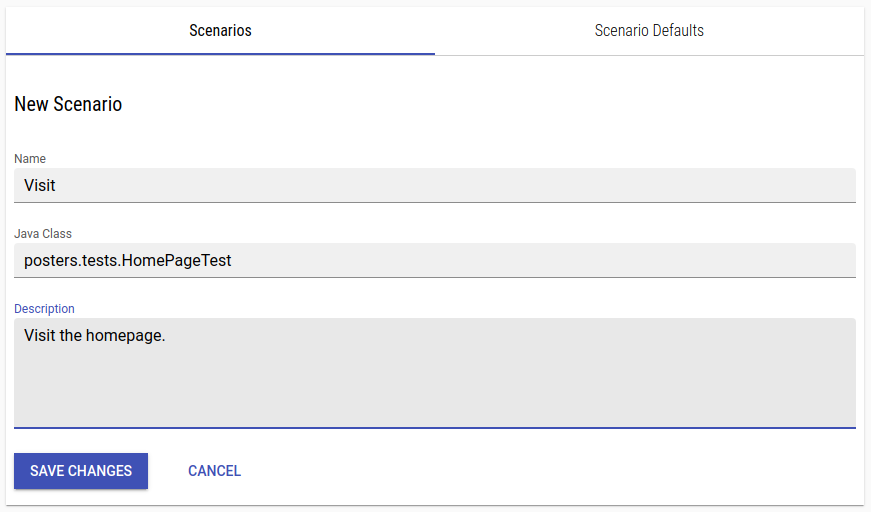
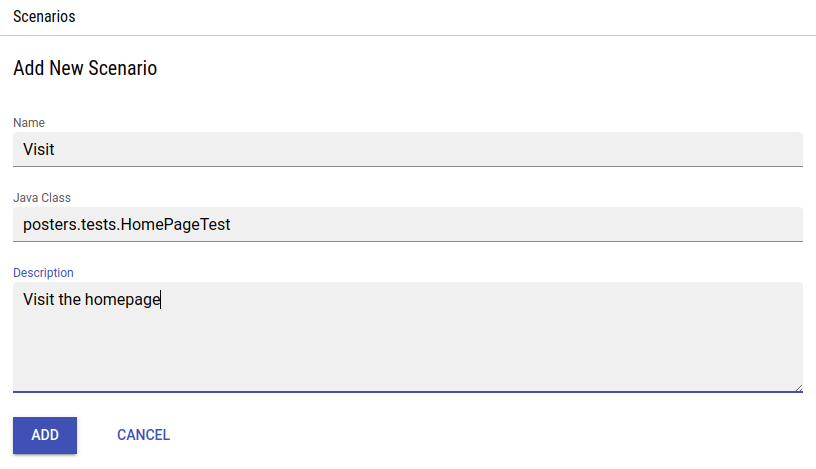
XTC changes up to v84

diff --git a/content/en/xtc/monitoring/440-scenario-setup.md b/content/en/xtc/monitoring/440-scenario-setup.md
@@ -18,13 +18,44 @@ The basis for all monitoring scenarios is a set of [XLT test cases]({{< relref "
 
 XLT tests are basically Java classes containing JUnit tests. These classes will be built by XTC so it can then run the test scenarios contained in them.
 
-## Defining Scenario Defaults
+## Adding a New Scenario
 
-In the _Scenarios_ section you will find two tabs: _Scenarios_, which allows you to manage the monitoring scenarios for your project, and _Scenario Defaults_, where you can define default settings to be used for all monitoring scenarios. These defaults can be overwritten for each individual scenario. To view or edit scenario defaults, use the toggle on the right to expand the default section, where you will find one or more editing buttons next to the settings:
+To add a new monitoring scenario to your project, just click the `+` button at the top of the scenarios list. You will be asked to enter a **Name** (which must be unique across all scenarios in this project) and **Description** and, most importantly, the **Java Class** (including class path) in your repository that contains this scenario as a JUnit test case. 
 
-{{< image src="xtc/monitoring_scenarioDefaults.png" >}}
-The scenario defaults tab with expand toggle and editing button.
+{{< image src="xtc/monitoring_newScenario.png" >}}
+Creating a new monitoring scenario.
+{{< /image >}}  
+
+The new scenario will now show up in the list. It will be enabled by default and it will automatically use the [scenario default settings]({{< relref "#defining-scenario-defaults" >}}). You can now adjust these settings as needed by [editing the scenario]({{< relref "#managing-existing-scenarios" >}}). 
+
+{{% note notitle %}}
+New scenarios are disabled by default to give you time to finish customizing the scenario settings. Don't forget to enable the scenario when done.
+{{% /note %}}
+
+## Managing Existing Scenarios
+
+In the _Scenarios_ tab you may manage the monitoring scenarios of your project, add new scenarios, edit settings for the existing ones, quickly enable or disable scenarios or delete them if they are no longer needed.
+
+{{< image src="xtc/monitoring_scenarios_overview.png" >}}
+Overview of all existing scenarios in the project.
 {{< /image >}}
+
+You can open the detail view of a scenario by clicking the scenario name. There you 
+can adjust the [scenario settings]({{< relref "#scenario-settings" >}}) and [notifications]({{< relref "#notifications" >}}) as needed. Otherwise the [scenario defaults]({{< relref "420-monitoring-configuration/#defining-scenario-defaults" >}}) will be used. 
+
+You can reset any overwritten default setting by simply removing it via this setting's context menu or by deleting all overwritten 
+
+{{< image src="xtc/monitoring_drop_overwritten_settings.png" >}}
+Deleting the overwritten criteria settings for a scenario to use default again.
+{{< /image >}}
+
+If you do not need a scenario you can **disable** it temporarily or **delete** it entirely by choosing these actions from the scenario's context menu.
+
+## Scenario Settings
+
+### General 
+
+In _General_ you set the scenario name and description, and the Java class containing this scenario. 
 
 ### Execution
 
@@ -38,54 +69,15 @@ In _Execution_ you define where and how the scenarios should be executed:
 
 In _Properties_ you may add test properties to use for scenario execution. These properties may be entered as free text, so make sure your input is valid!
 
-### Notifications
-
-In _Notifications_ you can manage the notification recipients or temporary disable notifications. You will find a toggle to deactivate notifications completely (this can be overwritten in each individual scenario). For active notifications you may define
-* a _Send Threshold_, i.e. a fail count (how many executions must fail to send a notification) and the number of considered executions (how many of the last executions should be considered to validate the fail count against, e.g. if the fail count is 2 and you consider 2 executions, a notification will be sent if two consecutive executions fail, but if you consider 5 executions for the same fail count, a notification will be already sent as soon as two out of five consecutive executions fail), 
-* a _Reply-To Address_ (the default reply address for received notification mails - if none is set this is a no-reply service address, so we recommend using any sensible contact in your project for this), and
-* a _Subscription List_, which consists of one or more recipients for your monitoring notifications, which may be added as a user (project member with predefined mail address) or a custom entry (custom mail address or phone number). For each subscriber you may choose whether to send notifications via e-mail or text message (or both). The subscriber data can be edited anytime, subscribers can also be deactivated or removed entirely.
-
 ### Criteria
 
 The most crucial part of the settings is to define _criteria_ which will be validated during the scenario execution. Violations cause the scenario to be treated as failed. You may define several criteria, each of which will be validated individually (i.e. if one criterion fails, the scenario will be treated as failed and a notification will be sent).
 
 You may add criteria by clicking the `+` symbol at the top of the list. You can then pick a criterion to use from a given list (e.g. Maximum Request Runtime, or Maximum Request Errors) and define a threshold for this criterion.
 
-## Managing Existing Scenarios
+## Notifications
 
-In the _Scenarios_ tab you may manage the monitoring scenarios of your project, add new scenarios, edit settings for the existing ones or delete them if they are no longer needed.
-
-You can open an overview of a scenario's current settings by clicking the scenario name or the expand button right of the scenario row in the list:
-
-{{< image src="xtc/monitoring_scenarioOverview.png" >}}
-Expanded scenario information in the scenarios list.
-{{< /image >}}
-
-By selecting "Edit" from the menu in the right of the scenario row, you can adjust the scenario settings as needed. Otherwise the [scenario defaults]({{< relref "#defining-scenario-defaults" >}}) will be used. The settings we explained in [scenario defaults]({{< relref "#defining-scenario-defaults" >}}) are available for each individual scenario, and in addition you have the basic scenario settings in _General_ (scenario name and description, and the Java class containing this scenario). 
-
-Scenarios with overwritten settings are indicated by a small "(Defaults overwritten)" note next to the scenario name. In the settings overview, the overwritten scenarios are highlighted in blue:
-
-{{< image src="xtc/monitoring_overwrittenSettings.png" >}}
-Scenario information containing an overwritten setting.
-{{< /image >}}
-
-If you do not need a scenario you can disable it temporarily or delete it entirely by choosing these actions from the scenario's context menu.
-
-{{< image src="xtc/monitoring_scenarioMenu.png" >}}
-The context menu for a monitoring scenario.
-{{< /image >}}
-
-## Adding a New Scenario
-
-To add a new monitoring scenario to your project, just click the `+` button at the top of the scenarios list. You will be asked to enter a **Name** (which must be unique across all scenarios in this project) and **Description** and, most importantly, the **Java Class** (including class path) in your repository that contains this scenario as a JUnit test case. 
-
-{{< image src="xtc/monitoring_newScenario.png" >}}
-Creating a new monitoring scenario.
-{{< /image >}}  
-
-The new scenario will now show up in the list. It will be enabled by default and it will automatically use the [scenario default settings]({{< relref "#defining-scenario-defaults" >}}). You can now adjust these settings as needed by [editing the scenario]({{< relref "#managing-existing-scenarios" >}}). 
-
-{{% note notitle %}}
-New scenarios are disabled by default you time to finish customizing the scenario settings. Don't forget to enable the scenario when done.
-{{% /note %}}
-
+In _Notifications_ you can manage the notification recipients or temporary disable notifications. You will find a toggle to deactivate notifications completely (this can be overwritten in each individual scenario). For active notifications you may define
+* a _Send Threshold_, i.e. a fail count (how many executions must fail to send a notification) and the number of considered executions (how many of the last executions should be considered to validate the fail count against, e.g. if the fail count is 2 and you consider 2 executions, a notification will be sent if two consecutive executions fail, but if you consider 5 executions for the same fail count, a notification will be already sent as soon as two out of five consecutive executions fail), 
+* a _Reply-To Address_ (the default reply address for received notification mails - if none is set this is a no-reply service address, so we recommend using any sensible contact in your project for this), and
+* a _Subscription List_, which consists of one or more recipients for your monitoring notifications, which may be added as a user (project member with predefined mail address) or a custom entry (custom mail address or phone number). For each subscriber you may choose whether to send notifications via e-mail or text message (or both). The subscriber data can be edited anytime, subscribers can also be deactivated or removed entirely.

diff --git a/content/en/xtc/basics/070-audit-log.md b/content/en/xtc/basics/070-audit-log.md
@@ -12,15 +12,31 @@ description: >
 
 {{% permission type="project" least="true" role="project administrator" action="view the audit log for a project" %}}
 
-XTC comes with an Audit Log. Use this feature to learn which activity has been performed by which user at which time. This can be useful to check whether another user or the system triggered a change, and what exactly has been changed.
+XTC comes with an Audit Log. Use this feature to learn which activity has been performed by which user, or which API calls have been performed by which client ID at which time. This can be useful to check whether another user or the system triggered a change, and what exactly has been changed.
 
-The _Audit Log_ page in your **organization** shows just organization-related activities while the _Audit Log_ page in a **project** lists activities for that project only. 
+The _Audit Log_ page in your **organization** shows just organization-related activities while the _Audit Log_ page in a **project** lists activities for that project only. Both pages show the **User Audit Log** and the **API Audit Log** on separate tabs.
+
+**Entries in the audit log expire automatically after 180 days.**
+
+### User Audit Log
+
+In the user audit log, a table displays the most important details for organization- or project-related activities, such as time, activity type, user name and email. Each log entry can be expanded to show additional details, such as activity data where applicable.
 
 {{< image src="xtc/auditlog.png" >}}
-The audit log table of a load testing project.
+The user audit log table of a load testing project.
 {{< /image >}}
 
-Entries in the audit log expire automatically after 180 days.
+### API Audit Log
+
+The API audit log is conceptually similar to the user audit log, but contains different information. A table displays the most important details for an API call, such as time, activity type, request method, and URL. Each log entry can be expanded to show additional details, such as the client ID used, the user agent string, and additional input/output data where applicable.
+
+{{< image src="xtc/audit_log_api.png" >}}
+The API audit log table of a load testing project.
+{{< /image >}}
+
+{{% note notitle %}}
+Note that only API v2 endpoints are fully instrumented. The API v1 endpoints generate certain audit events, especially on error, but lack full coverage.
+{{% /note %}}
 
 ### Filtering the Audit Log
 

diff --git a/content/en/xtc/monitoring/420-monitoring-configuration.md b/content/en/xtc/monitoring/420-monitoring-configuration.md
@@ -25,10 +25,19 @@ The _Configuration_ of a monitoring project is very similar to the basic [projec
 
 Another specialty for _Repository Configuration_ is that you can define the branch to use by either specifying its name (static branch) or by defining a URL of a resource from which the branch name can be extracted dynamically using a regular expression. (This may be useful if you want to make the used test scenario code dependent on your currently deployed app version.)
 
-### Quiet Periods
+### Defining Scenario Defaults
+
+On the _Scenario Defaults_ tab in _Configuration_ you can define [default settings]({{< relref "440-scenario-setup/#scenario-settings" >}}) and [manage notification settings]({{< relref "440-scenario-setup/#notifications" >}}) to be used for all monitoring scenarios. These defaults can be overwritten for each individual scenario. To view or edit scenario defaults, use the toggle on the right to expand the default section, where you will find one or more editing buttons next to the settings:
+
+{{< image src="xtc/monitoring_scenario_defaults.png" >}}
+The scenario defaults tab with expand toggle and editing button.
+{{< /image >}}
+
+## Quiet Periods
 
 {{% permission type="project" least="true" role="test manager" action="configure the quiet periods" %}}
 
 You can define _Quiet Periods_ for your monitoring projects. These are time spans in which no [notifications]({{< relref "440-scenario-setup#notifications" >}}) will be sent (and, if you configure this, no scenarios will run). 
 
 To add a new quiet period, click the `+` symbol at the top of the Quiet Periods list. You may then define a label, a start time and an end time, and configure whether or not scenarios should be executed in this period. The newly created quiet period will then show up in the list. All periods in the list can be edited, disabled or removed, no matter whether they are in the future, in the past or currently active. 
+

diff --git a/content/en/xlt/load-testing/Manual/320-test-evaluation.md b/content/en/xlt/load-testing/Manual/320-test-evaluation.md
@@ -165,6 +165,8 @@ This section consists of a table that contains all errors thrown by the test cas
 
 The Overview section lists the error message and the count. It ignores the stack trace to sum up common problems without relating them to the test case. The Details section beneath lists the full stack trace next to the test case and the directory in which you can find the data dump for further analysis.
 
+(The maximum number of paths to result browser directories for each different error entry is limited to 10 by default. Also, the number of errors for which stack traces are displayed is limited in order to prevent the report generator from running out of memory if there are numerous errors with different stack traces or exception messages. By default, a maximum of 500 stack traces are kept in memory. Both limits can be reconfigured in the report generator settings.)
+
 ### Events
 
 Events are used to indicate that the test has encountered a special situation that is not an error but too important to ignore or simply to write to the log. This section consists of a single table that lists all events that occurred during the test run including their name, amount, detail message and the name of the test case that produced this event.

diff --git a/content/en/xtc/loadtesting/160-start-lt.md b/content/en/xtc/loadtesting/160-start-lt.md
@@ -28,7 +28,7 @@ Start or schedule the configured load test on the test page.
 
 You will be prompted to confirm that you want to start the load test with the given settings now. If you click _Start Load Test_ XTC will start the load test by 
  * downloading the current state of the test suite project from the repository
- * building the project (in case a technical error occurred when building the load test suite, the whole build process, including any preparative steps, is being retried),
+ * building the project (in case a technical error occurred when building the load test suite, the whole build process, including any preparative steps, is being retried - this also applies when XTC detects an integrity issue for the cached local Maven repository of the load testing project, so the build will fetch all required dependencies anew and update the cache such that subsequent builds can profit from it again),
  * provisioning the requested agents and, if this was successful, 
  * run the provided test scenarios for the configured time.
 

diff --git a/content/en/xtc/loadtesting/155-lt-settings.md b/content/en/xtc/loadtesting/155-lt-settings.md
@@ -27,6 +27,12 @@ Under _Load Profile_ you can override the settings in your test suite for the [t
 
 The load profile settings are only needed if you want to override your test suite settings for some reason, e.g. quickly changing the test duration or load factor without pushing changes to the repository, or switching between your prepared test property files. If the fields are left empty, the settings in the test suite will be used.
 
+When overriding the load profile settings for a particular load test, you must specify a value for each parameter, including the ramp-up and shutdown times. Load Factor formulas are only allowed if ramp up time equals zero. The resulting load curve is shown in a graph next to the settings then:
+
+{{< image src="xtc/load_profile_overwrite.png" >}}
+Overwriting the Load Profile with a Load Function
+{{< /image >}}
+
 Learn more in our _Load Testing_ section about [configuring load profiles]({{< relref "/xlt/load-testing/manual/470-load-configuration" >}}) for your test run.
 
 ### Machine Configuration
